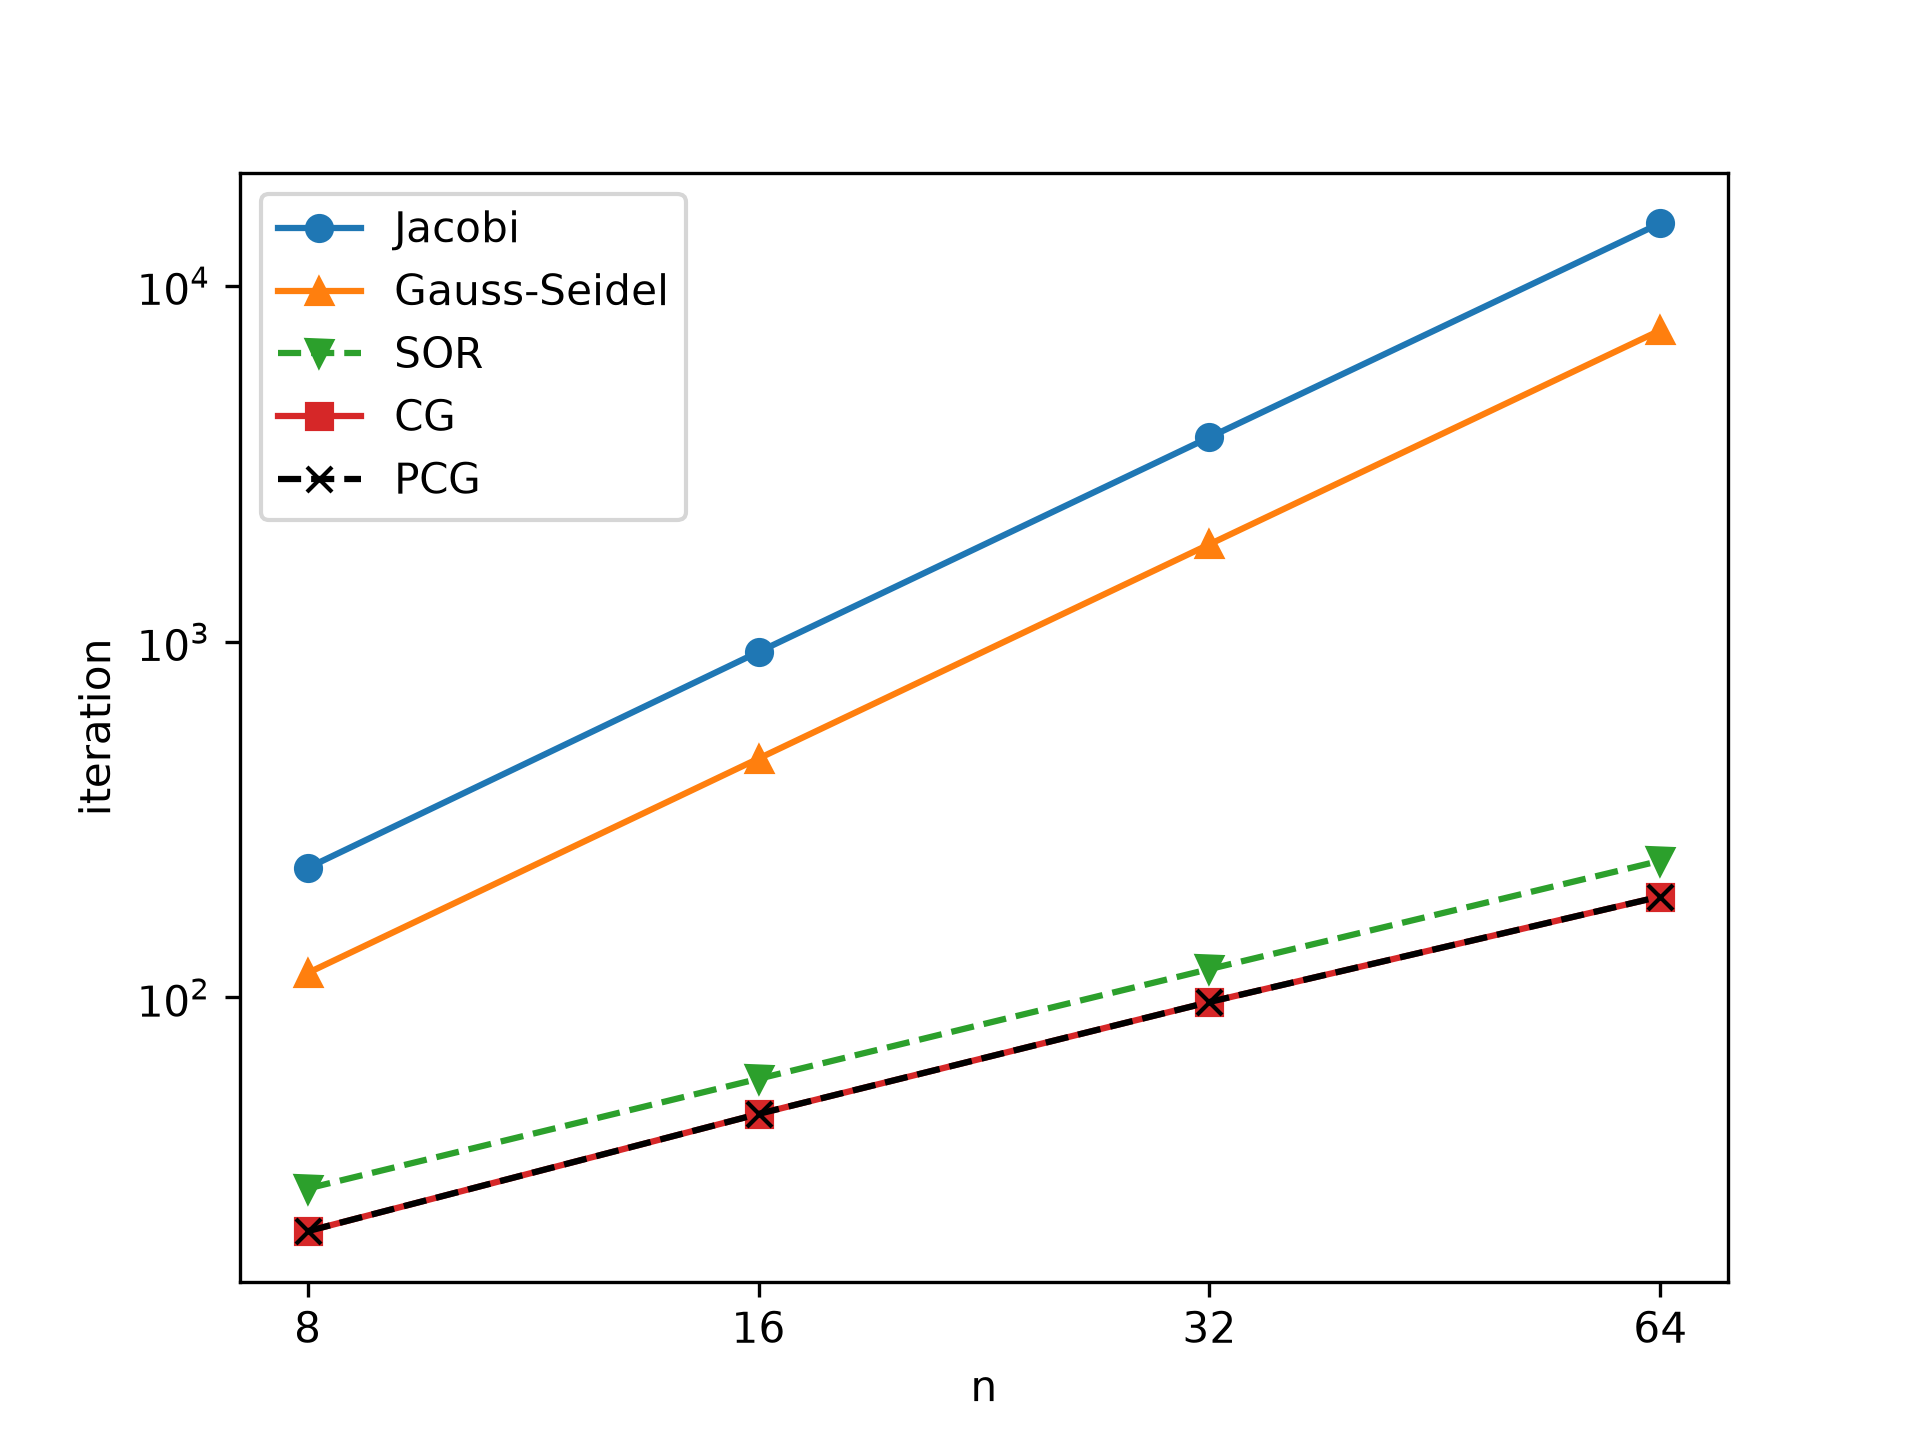
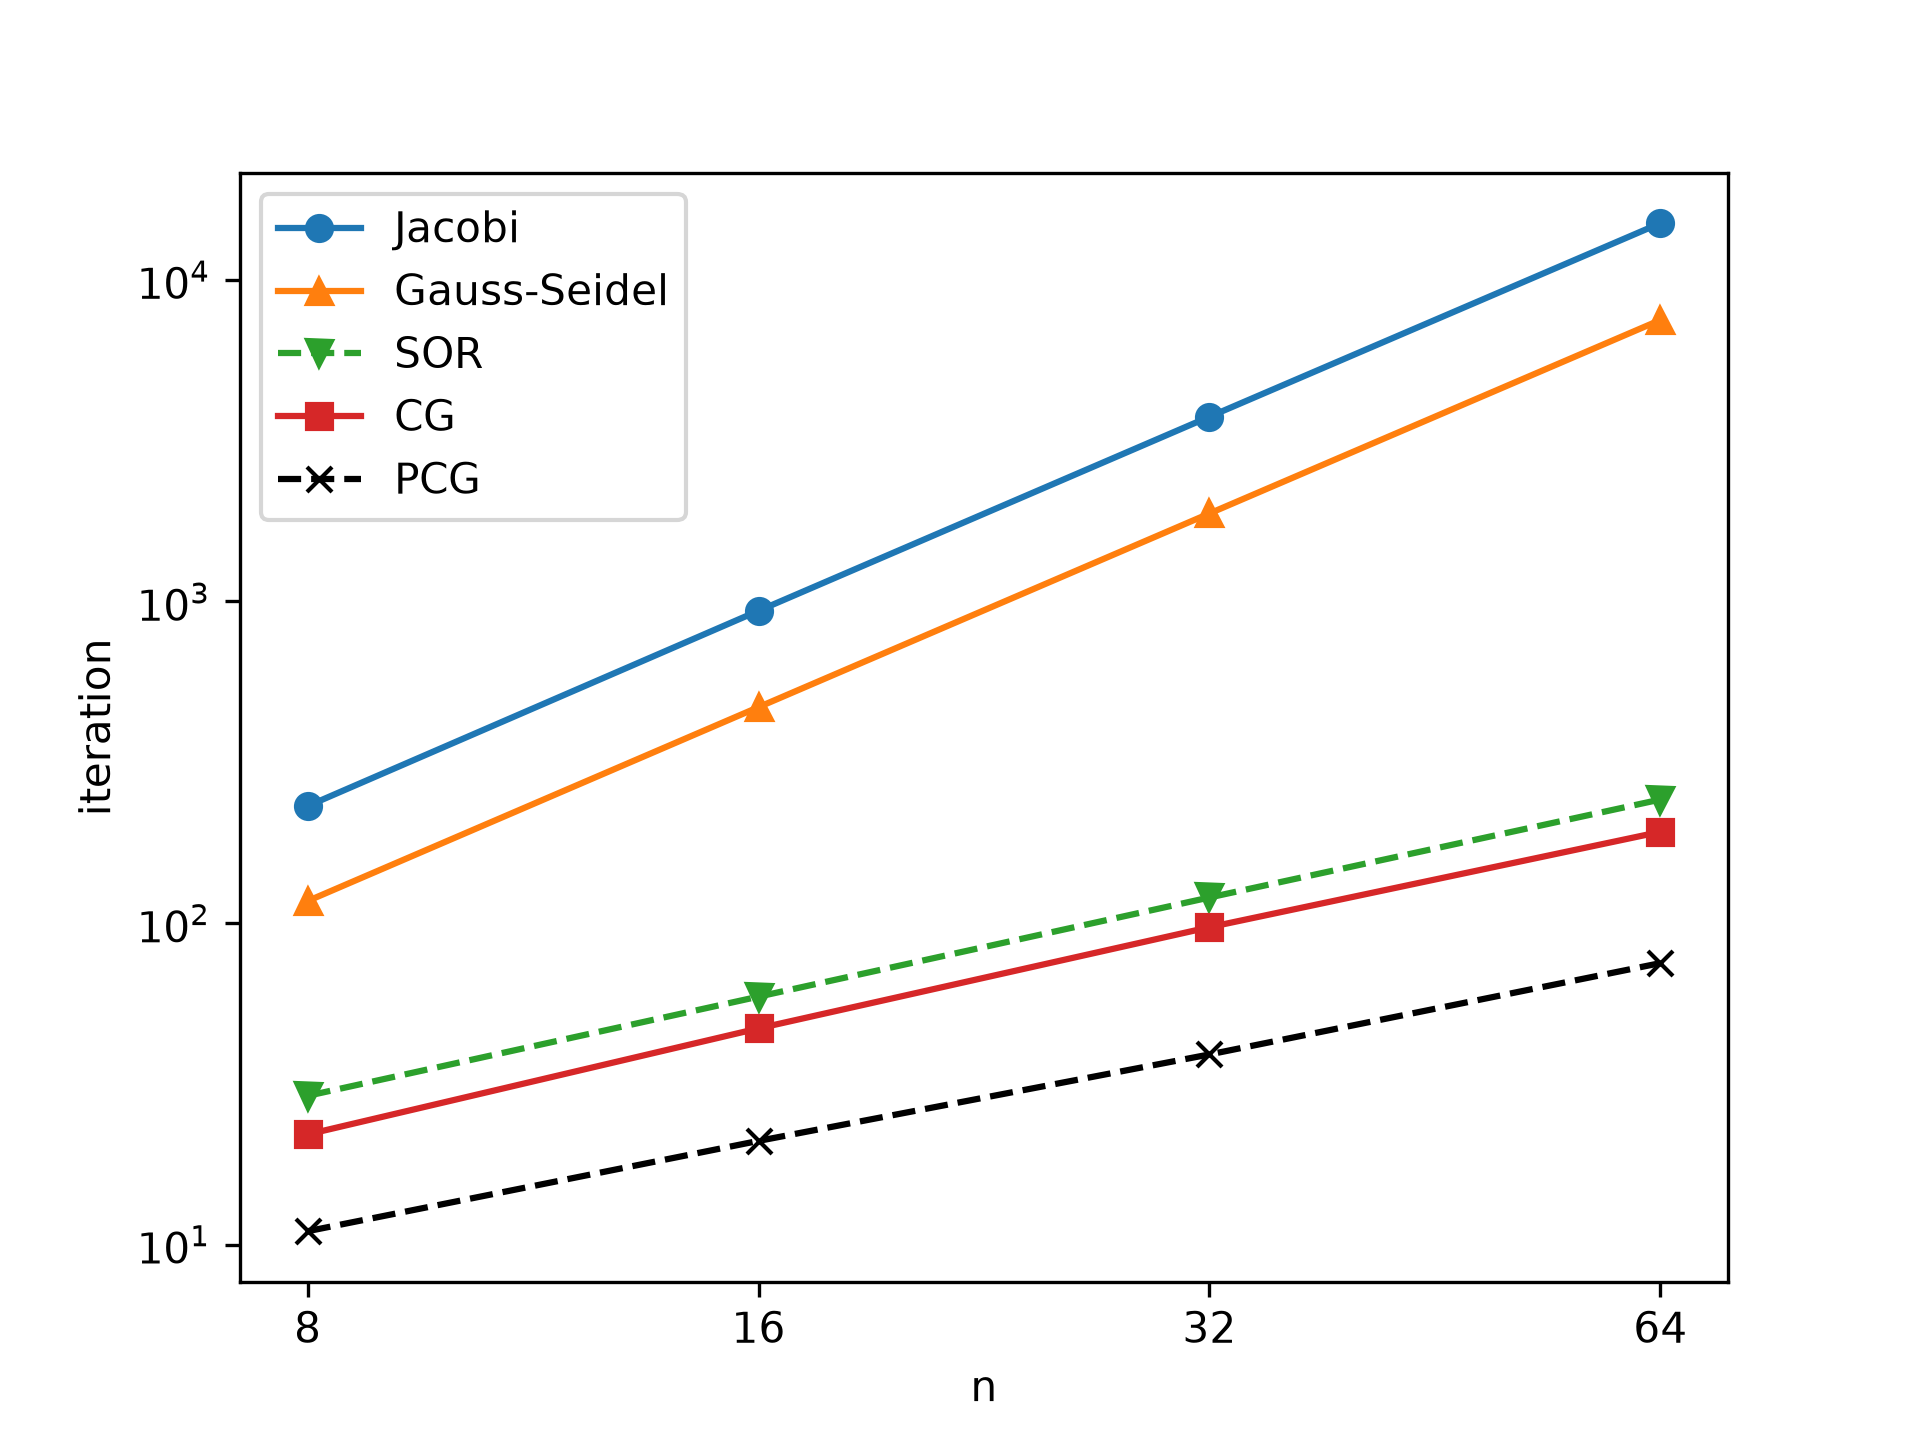
graph changed

diff --git a/C9_1.py b/C9_1.py
@@ -26,7 +26,7 @@ for n in n_list:
     print(f"{sor_it[-1]:>10d} ", end="", flush=True)
     u, converged, history_cg = methods.cg(b,n)              ; cg_it.append(len(history_cg) - 1)
     print(f"{cg_it[-1]:>10d} ", end="", flush=True)
-    u, converged, history_pcg = methods.pcg_ssor(b,n)       ; pcg_it.append(len(history_cg) - 1)
+    u, converged, history_pcg = methods.pcg_ssor(b,n)       ; pcg_it.append(len(history_pcg) - 1)
     print(f"{pcg_it[-1]:>10d} ", flush=True)
 
 iterations ={
